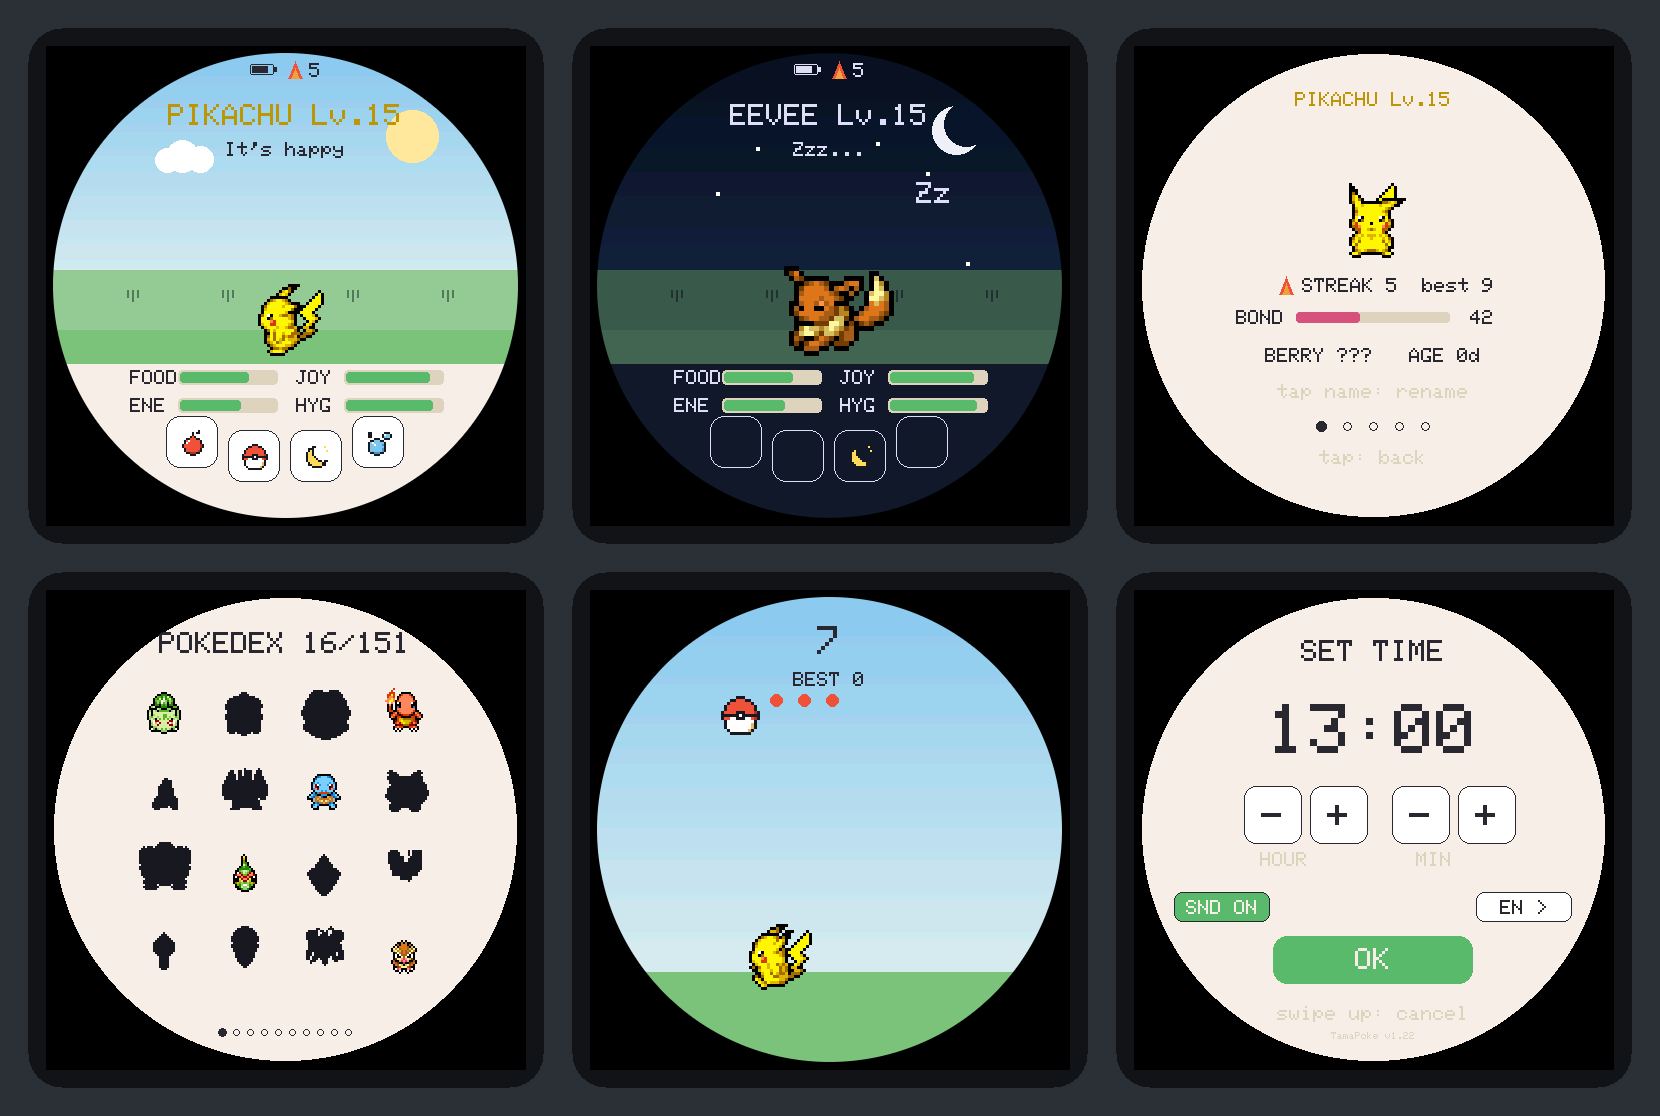
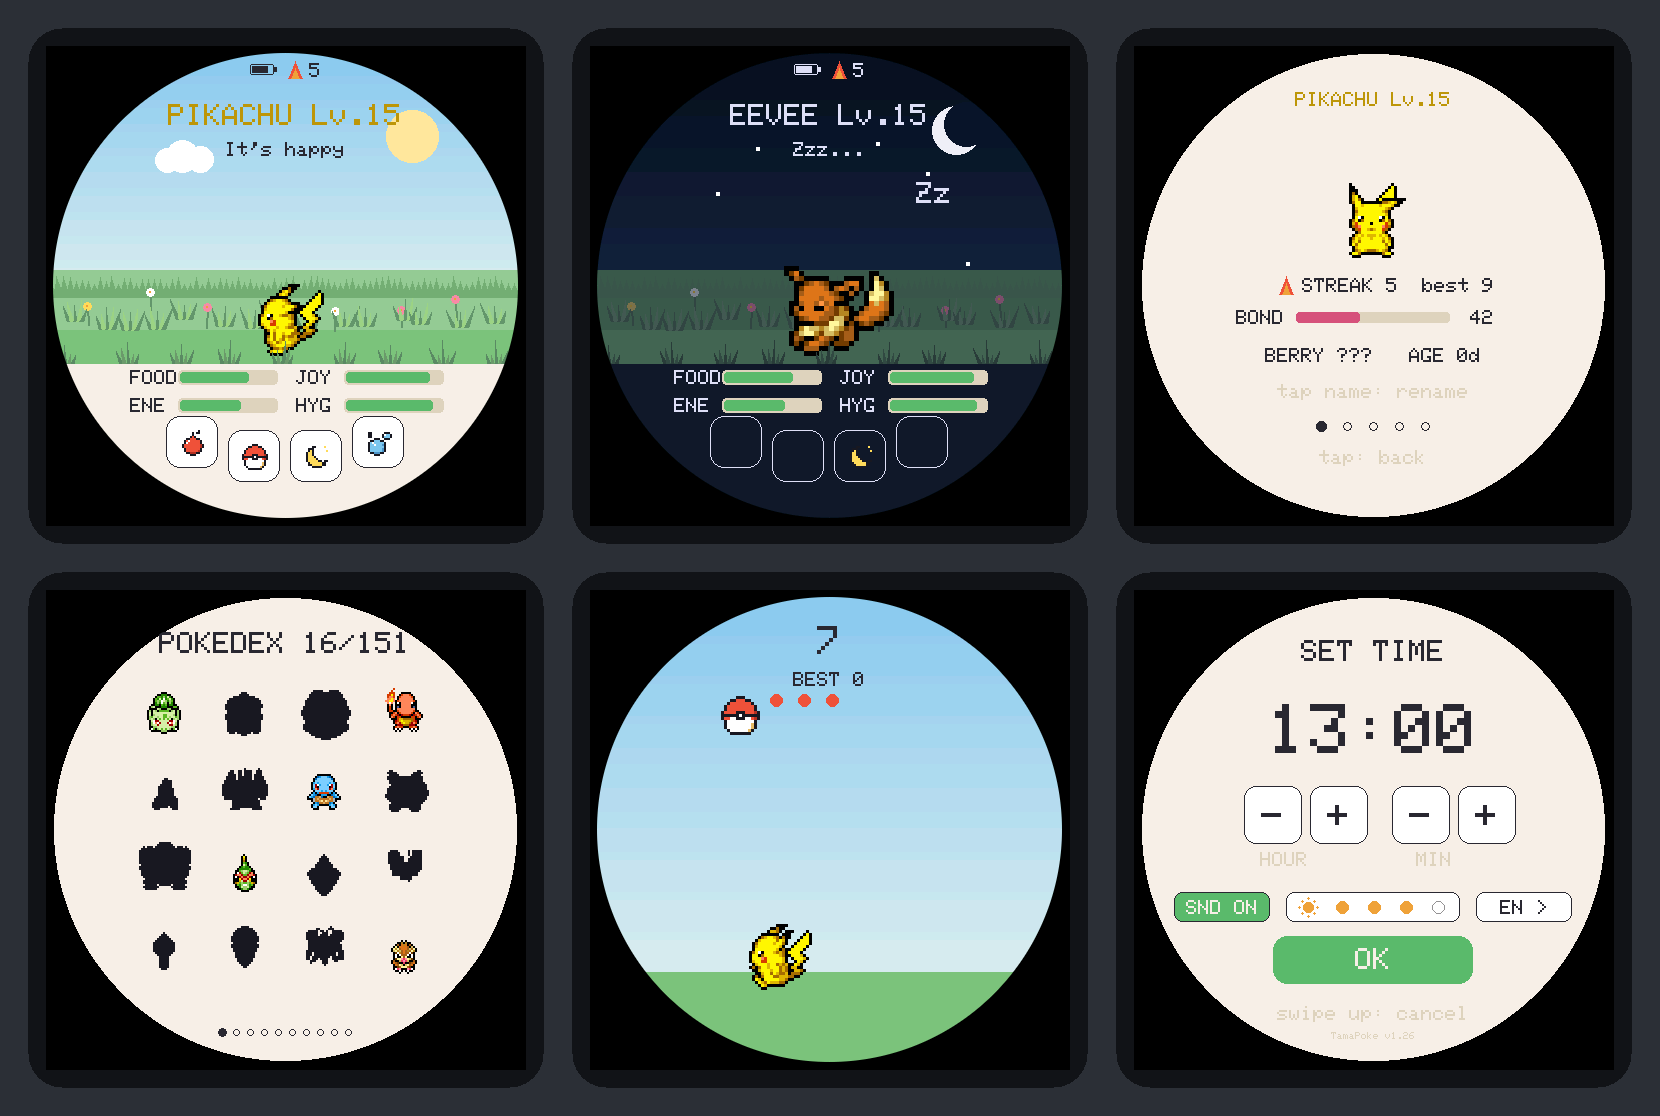
The meadow is tall grass swaying in the wind; v1.26
The meadow (biome 0) had four static tufts. It now draws a jagged grass
edge on the hill, fanned tufts with flowers, and a front row drawn over
the pet's feet (drawSceneFront, between the pet and the bottom panel).
wind.h is the pure sway: a phase-shifted back-and-forth plus a gust that
crosses left to right every 12 s, tested in test/test_wind.cpp. The
forest's conifer tips use it too. Layout is fixed, seeded once with its
own LCG so random() isn't touched.

BIOME <n> previews a biome without touching the pet; PERF prints the
background's draw time: 16.7 ms for the meadow vs 14.8 for the beach on
the board. README contact sheet refreshed.

diff --git a/wind.h b/wind.h
@@ -1,0 +1,49 @@
+#pragma once
+#include <stdint.h>
+
+// Viento para el paisaje (v1.26): cuanto se inclina una brizna, una flor o la punta de un
+// arbol en el instante `now` y en la columna `x`. Logica pura, sin pantalla, con tests en
+// test/test_wind.cpp.
+//
+// Dos cosas sumadas:
+//  - un vaiven suave (WIND_SWAY_PX a cada lado, periodo de WIND_PERIOD_MS), desfasado con x
+//    para que el prado ondule en vez de moverse todo a la vez;
+//  - una rafaga que cruza la pantalla de izquierda a derecha cada WIND_GUST_MS: lo que va
+//    pillando se inclina hasta WIND_GUST_PX mas hacia la derecha y vuelve.
+// El resultado esta siempre en [-WIND_MAX_PX, WIND_MAX_PX] y depende solo de (now, x):
+// el mismo instante da el mismo dibujo (el renderer del PC y la placa coinciden).
+
+#define WIND_SWAY_PX 2
+#define WIND_GUST_PX 5
+#define WIND_MAX_PX (WIND_SWAY_PX + WIND_GUST_PX)
+#define WIND_PERIOD_MS 3200   // 64 pasos de 50 ms
+#define WIND_GUST_MS 12000    // una rafaga cada 12 s
+#define WIND_GUST_W 110       // media anchura de la rafaga (px)
+#define WIND_SPAN 466         // anchura del lienzo que cruza
+
+// seno * 127 en 64 pasos
+static const int8_t WIND_SIN[64] = {
+  0, 12, 25, 37, 49, 60, 71, 81, 90, 98, 106, 112, 117, 122, 125, 126,
+  127, 126, 125, 122, 117, 112, 106, 98, 90, 81, 71, 60, 49, 37, 25, 12,
+  0, -12, -25, -37, -49, -60, -71, -81, -90, -98, -106, -112, -117, -122, -125, -126,
+  -127, -126, -125, -122, -117, -112, -106, -98, -90, -81, -71, -60, -49, -37, -25, -12,
+};
+
+// fuerza de la rafaga en x (0..127): un triangulo que avanza de izquierda a derecha,
+// entrando por fuera de la pantalla y saliendo por el otro lado
+inline int windGust(uint32_t now, int x) {
+  int32_t travel = WIND_SPAN + 2 * WIND_GUST_W;
+  int32_t front = (int32_t)((now % WIND_GUST_MS) * (uint32_t)travel / WIND_GUST_MS) - WIND_GUST_W;
+  int32_t d = x - front;
+  if (d < 0) d = -d;
+  return d >= WIND_GUST_W ? 0 : (int)(127 - d * 127 / WIND_GUST_W);
+}
+
+// inclinacion en px (positivo = a la derecha) de lo que crece en la columna x
+inline int windSway(uint32_t now, int x) {
+  int phase = (int)((now / (WIND_PERIOD_MS / 64) + (uint32_t)(x / 7)) & 63);
+  int base = WIND_SIN[phase] * WIND_SWAY_PX;
+  int gust = windGust(now, x) * WIND_GUST_PX;
+  int v = (base + gust) / 127;
+  return v > WIND_MAX_PX ? WIND_MAX_PX : v < -WIND_MAX_PX ? -WIND_MAX_PX : v;
+}

diff --git a/test/test_wind.cpp b/test/test_wind.cpp
@@ -1,0 +1,46 @@
+// Viento del paisaje (wind.h, v1.26).
+#include "framework.h"
+#include "../wind.h"
+
+TEST(wind, la_inclinacion_nunca_se_sale_del_rango) {
+  for (uint32_t t = 0; t < 2 * WIND_GUST_MS; t += 37)
+    for (int x = -60; x < 530; x += 5) {
+      int v = windSway(t, x);
+      CHECK(v >= -WIND_MAX_PX && v <= WIND_MAX_PX);
+    }
+}
+
+TEST(wind, el_mismo_instante_da_el_mismo_dibujo) {
+  for (uint32_t t : { 0u, 1234u, 99999u, 4000000000u })
+    for (int x : { 0, 100, 233, 465 }) CHECK_EQ(windSway(t, x), windSway(t, x));
+  // la rafaga se repite cada WIND_GUST_MS
+  CHECK_EQ(windGust(500, 200), windGust(500 + WIND_GUST_MS, 200));
+}
+
+TEST(wind, la_rafaga_cruza_de_izquierda_a_derecha) {
+  // a la izquierda llega antes que a la derecha
+  uint32_t tl = 0, tr = 0;
+  for (uint32_t t = 0; t < WIND_GUST_MS; t += 10) {
+    if (!tl && windGust(t, 40) == 127) tl = t;
+    if (!tr && windGust(t, 420) >= 126) tr = t;
+  }
+  CHECK(tl > 0 && tr > tl);
+  // en medio de la rafaga todo se inclina a la derecha
+  CHECK(windSway(tl, 40) > WIND_SWAY_PX);
+  // fuera de ella solo queda el vaiven
+  int maxCalm = 0;
+  for (uint32_t t = 0; t < WIND_PERIOD_MS; t += 10) {
+    if (windGust(t + tl + WIND_GUST_MS / 2, 40)) continue;
+    int v = windSway(t + tl + WIND_GUST_MS / 2, 40);
+    if (v < 0) v = -v;
+    if (v > maxCalm) maxCalm = v;
+  }
+  CHECK(maxCalm <= WIND_SWAY_PX);
+}
+
+TEST(wind, columnas_vecinas_ondulan_desfasadas) {
+  int diff = 0;
+  for (uint32_t t = 0; t < WIND_PERIOD_MS; t += 50)
+    if (windSway(t, 0) != windSway(t, 230)) diff++;
+  CHECK(diff > 10);
+}

diff --git a/tools/render/render.cpp b/tools/render/render.cpp
@@ -231,6 +231,9 @@ static const std::vector<Scene> &scenes() {
     { "home-dusk", [] { pokemon(7, 19); } },
     { "home-night", [] { pokemon(133, 23); pet.sleeping = true; } },
     { "home-forest", [] { pokemon(1, 9); pet.poops = 2; pet.fullness = 20; } },
+    // the swaying tall-grass meadow (v1.26): mid-gust, at dusk
+    { "home-gust", [] { pokemon(19, 11); gHostMillis = 114000; } },  // wind.h: the gust is mid-screen at 6 s of 12
+    { "home-meadow-dusk", [] { pokemon(19, 19); } },
     { "feed", [] { pokemon(133, 12); menuKind = MENU_FEED; menuUntil = millis() + 6000; } },
     { "play-menu", [] { pokemon(133, 12); menuKind = MENU_PLAY; menuUntil = millis() + 6000; } },
     { "release", [] { pokemon(54, 15); confirmUntil = millis() + 10000; } },

diff --git a/CHANGELOG.md b/CHANGELOG.md
@@ -8,6 +8,26 @@ keeps your Pokémon.
 
 ## [Unreleased]
 
+## [1.26] - 2026-11-05
+
+### Added
+
+- **The meadow is tall grass that sways.** The meadow background (normal,
+  electric, fighting, poison, psychic and ghost types, and the egg) used to have
+  four static tufts. It now has a jagged edge of grass along the hill, tufts of
+  fanned blades with flowers in the middle, and a front row of tufts drawn over
+  the pet's feet. Everything sways with `wind.h`: a gentle back-and-forth,
+  out of phase across the screen, plus a gust that sweeps from left to right
+  every 12 s. At night the grass and flowers darken with the rest.
+- The forest's conifer tips sway with the same wind.
+- `BIOME <n>` over serial previews another biome on the home screen without
+  touching the pet or the save (`BIOME` alone goes back); `PERF` prints the
+  background's draw time. On the board the meadow takes 16.7 ms against the
+  beach's 14.8 ms.
+- `test/test_wind.cpp`: the sway stays in range, is the same for the same
+  instant, the gust crosses left to right, and neighbouring columns move out of
+  phase. Render scenes for the meadow mid-gust and at dusk.
+
 ## [1.25] - 2026-11-05
 
 Saves from v1.24 load as they are: a goal already reached today counts as the

diff --git a/README.md b/README.md
@@ -1,7 +1,7 @@
 # TamaPoke
 
 ![Board](https://img.shields.io/badge/board-ESP32--S3%20AMOLED%202.16-E7352C?logo=espressif&logoColor=white)
-![Firmware](https://img.shields.io/badge/firmware-v1.25-8A2BE2)
+![Firmware](https://img.shields.io/badge/firmware-v1.26-8A2BE2)
 [![CI](https://github.com/Ale-Cuevas/TamaPoke/actions/workflows/ci.yml/badge.svg)](https://github.com/Ale-Cuevas/TamaPoke/actions/workflows/ci.yml)
 ![Code](https://img.shields.io/badge/code-MIT-blue)
 ![Languages](https://img.shields.io/badge/languages-8-FFCB05)
@@ -503,6 +503,12 @@ U8g2 unifont subset carries ♀ or ♂, so each language picks its own substitut
 The idle screen paints the sky from the **RTC's real time** (dawn / day / dusk /
 night with moon and stars) and the ground from the **type's biome** (meadow,
 beach, forest, volcano, mountain, snow). Sleeping forces night.
+
+The meadow is **tall grass that sways in the wind**, with flowers, and a front
+row of tufts brushing the pet's feet; a gust sweeps across it from left to right
+every 12 s, and the forest's conifers sway with it (`wind.h`). `BIOME <n>` over
+serial previews another biome without touching the pet (`BIOME` alone goes
+back), and `PERF` prints how long the background takes to draw.
 
 ## Layout
 

diff --git a/docs/DEVICE_TESTS.md b/docs/DEVICE_TESTS.md
@@ -179,6 +179,15 @@ and the steps not yet handed to the pet; `STATS` shows steps today/total and the
   Backpack: the level goes up by 1 (and the evolve button appears if that level is the evolution level).
 - [ ] v1.25 a real 10000-step day: the goals fire as they're reached, with the screen dark in between.
 
+### Backgrounds (v1.26)
+`BIOME <n>` shows biome n on the home screen without changing the pet (`BIOME` alone goes back); `PERF` prints
+the background's draw time.
+- [ ] `BIOME 0`: tall grass on the hill, tufts with flowers, front tufts over the pet's feet; it sways smoothly,
+  and every 12 s a gust leans it to the right from left to right. At night (or with the pet asleep) it darkens.
+- [ ] `BIOME 2`: the forest's conifer tips sway a little with the same gust.
+- [ ] `PERF` with `BIOME 0` within ~3 ms of the beach (`BIOME 1`). (2026-11-05, v1.26 on the board: beach 14.8 ms,
+  meadow 16.7 ms, forest 15.0 ms ✓)
+
 ### Pacing (v1.22)
 Weight and bond move slower. `STATS` prints them; `STEPS <n>` injects steps.
 - [ ] A candy: the WGT bar (Battle page) goes up 12 and is still above 0 an hour later (−1 every 15 min

diff --git a/docs/PENDING_TESTS.md b/docs/PENDING_TESTS.md
@@ -29,6 +29,7 @@ Write the result on each line: a tick, or what you saw.
 | 20 | v1.24 practice battle: PLAY menu, VS card and jingle, attacks and captions, special (taps, flash, cooldown), result and reward | [Battle](DEVICE_TESTS.md#battle) | ✓ "works like a charm" (user, 2026-11-05) |
 | 21 | v1.24 battle lengths 10–20 s; big Attack sprites without stutter; heap flat over 20 battles | [Battle](DEVICE_TESTS.md#battle) | ✓ battles fine on the board (user, 2026-11-05); 20-battle heap check not run |
 | 22 | v1.25 goals at 3000 / 6000 / 10000: banners, rewards, Rare Candy found and used (+1 level), Marathon medal, WALK ring and flags | [Steps](DEVICE_TESTS.md#steps) | pending |
+| 23 | v1.26 swaying meadow (`BIOME 0`): smooth sway, gust every 12 s, front tufts over the feet, night tint; forest tips sway | [Backgrounds](DEVICE_TESTS.md#backgrounds-v126) | draw time ✓ (16.7 ms vs 14.8 beach); look: pending |
 
 Questions only the board can answer:
 - Where is the USB-C port relative to the screen's top? Bottom edge (buttons on top).
